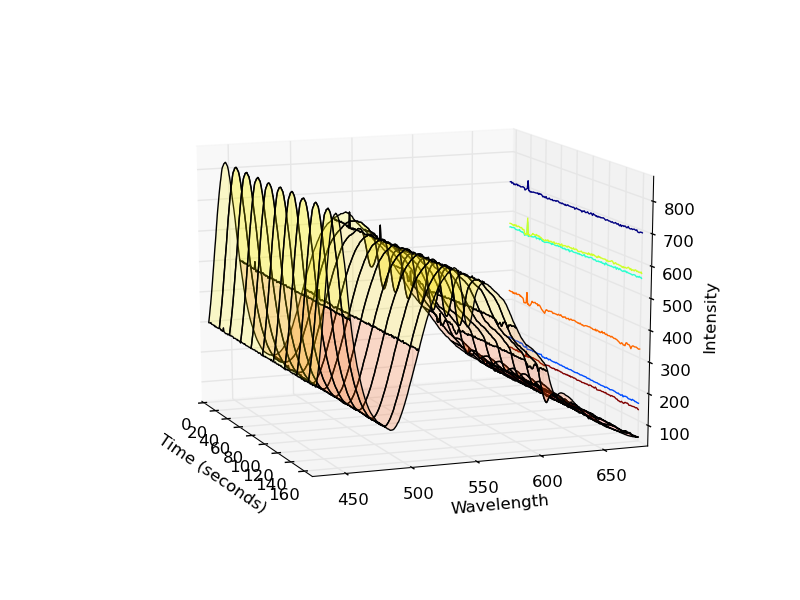
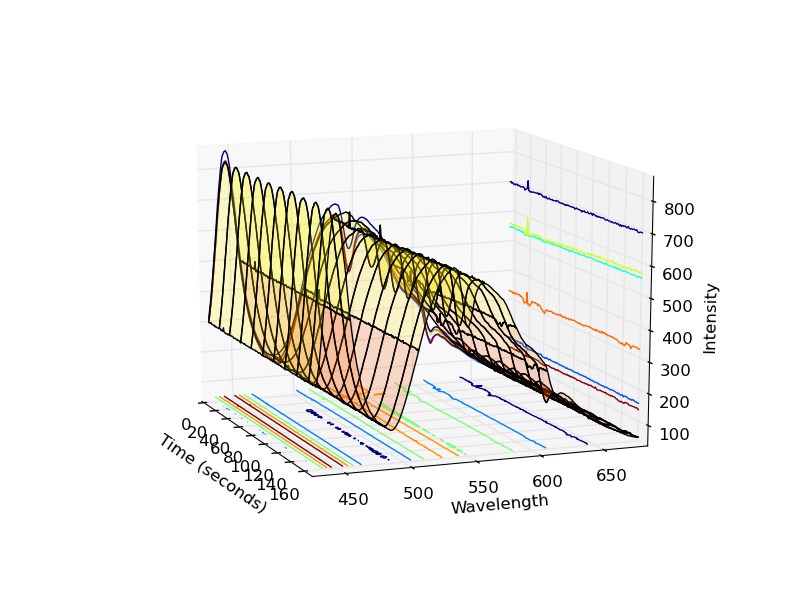
Created a nice script, updated 3dplots to be smarter and more generic

diff --git a/pyuvvis/scripts/gwu_spec.py b/pyuvvis/scripts/gwu_spec.py
@@ -1,4 +1,4 @@
-import os
+import os, time
 from optparse import OptionParser
 
 ## For testing
@@ -37,6 +37,8 @@ if __name__=='__main__':
     img_ignore=['png', 'jpeg', 'tif', 'bmp'] #no .
     logfilename='RUNLOG'
     
+    ### Option Parser to catch indirectory, outdirectory, wheter to ignore images in a directory, 
+    ### and to overwrite output directory if it already exists 
     parser = OptionParser(usage='usage: %prog -i indirectory -o outdirectory ', version='%prog 0.1.0')
     parser.add_option('-d', '--indir',
                       action='store',
@@ -55,7 +57,7 @@ if __name__=='__main__':
                       default='', #None causes errors
                       help='Title of trial/run, used in plot titles and other places.',)     
     
-    parser.add_option('-i', '--ignore', action='store_true', default=True, #type='choice', choices=['True', 'False'],
+    parser.add_option('-i', '--ignore', action='store_true', default=True, 
                       dest='ignore',  help='Ignore the most commonly found image types \
                       (.png, .jpeg etc...) when parsing data files.')
     
@@ -68,22 +70,25 @@ if __name__=='__main__':
     
     (options, args) = parser.parse_args()
     
-    ### Arguments will default to None
+    ### Ensure indir/outdir were passed
     inroot, outroot=options.wd, options.od 
     if inroot==None or outroot == None:
+        ### Arguments will default to None, so can't do try: except AttributeError        
         parser.error("Please both enter an indirectory (-d) and outdirectory (-o)")
 
+    ### If runname, add underscore for output file formatting
     if options.rname !='':
-        options.rname+='_'  #Add underscore to runname if it exists
+        options.rname+='_'  
     
-    ### Open logfile
+    ### Open logfile to track various IO steps
+    start=time.time()
     lf=open(outroot + '/'+ logfilename, 'w')
 
-
-    ### Walk subdirectories    
+    ### Walk a single directory down    
     walker=os.walk(inroot, topdown=True, onerror=None, followlinks=False)
     (rootpath, rootdirs, rootfiles)= walker.next()
     for folder in rootdirs:    
+        print "Analyzing run directory %s"%folder
 
         wd=inroot+'/'+folder
         od=outroot+'/'+folder
@@ -149,12 +154,12 @@ if __name__=='__main__':
         if hasattr(df_full, 'darkseries'):
             if isinstance(df_full.darkseries, type(None) ):
                 df=df_full #need this                
-                lf.write('Warning: darkseries not found in data of run directory %s'%folder)            
+                lf.write('Warning: darkseries not found in data of run directory %s\n'%folder)            
             else:    
                 df=df_full.sub(df_full.darkseries, axis='index')
         else:
             df=df_full #need this
-            lf.write('Warning: darkseries attribute is no found on dataframe in folder %s !'%folder)            
+            lf.write('Warning: darkseries attribute is no found on dataframe in folder %s!\n'%folder)            
 
         
         ### Make parameter.  Really don't need this except autoscaling plots with the full data, primarily setting
@@ -200,7 +205,7 @@ if __name__=='__main__':
         ### 3D Plots.  Set row and column step size, eg 10 would mean 10 column traces on the contours ###
         c_iso=10 ; r_iso=10
         kinds=['contourf', 'contour']
-        views=( (14, -21), (10,-30) )  #elev, aziumuth
+        views=( (14, -21), (28, 17), (5, -13), (48, -14), (14,-155) )  #elev, aziumuth
         for kind in kinds:
             out3d=od+'/3dplots_'+kind
             os.mkdir(out3d)
@@ -219,69 +224,6 @@ if __name__=='__main__':
         
 
     ### Close logfile    
+    lf.write('Time for completion, %s'%(round(time.time()-start),1))
     lf.close()
             
-
-    
-    #df_stream=pkgutil.get_data('pyuvvis', 'data/example_data/spectra.pickle') 
-    #df=df_loads(df_stream)
-    
-    #### subtract the dark spectrum
-    #df=df.sub(df.darkseries, axis='index')
-
-
-    #df.columns=datetime_convert(df.columns, return_as='seconds')
-    
-
-    ##df=boxcar(df, 2.0)
-    #dfsliced=wavelength_slices(df, ranges=((350.0,370.0), (450.0,500.0), (550.0,570.0), (650.0,680.0), (680.0,700.0)),\
-                               #apply_fcn='simps')
-                             ##  apply_fcn=np.histogram, bins=3)
-
-    #dfarea=wavelength_slices(df, ranges=(min(df.index), max(df.index)), apply_fcn='simps')
-                             
-    #df=df.ix[400.0:700.0]
-   ## colormapper=_df_colormapper(df, axis=0, vmin=300.0, vmax=700.0, cmap=cm.gist_heat)
-    ##specplot(df, colors=colormapper)
-    ##plt.show()
-
-##    timeplot(df, colors=_df_colormapper(df, axis=1,cmap=cm.autumn))
-    #range_timeplot(dfsliced)
-    #plt.show()
-    #df=boxcar(df, 10.0, axis=1)
-
-
-    #df=df.ix[400.0:800.0] 
-    ##df=df.ix[500.0:600.0]
-   
-    ##spec_surface3d(df, kind='contourf', xlabel='Time (s)', ylabel='Wavelength (nm)')
-  
-
-    ##plt.title('9/5/12 NPSam')
-    ##plt.show()
-              
-    ##spec_surface3d(df, kind='contourf', xlabel='Time (s)', ylabel='Wavelength (nm)')
-    ##spec_surface3d(df)
-
-
-
-    ##mlab.surf(np.asarray(list(df.columns)), np.asarray(list(df.index)) , np.asarray(df), warp_scale='auto')
-    #spec_poly3d(df)
-    #plt.show()
-
-    ##transfer_attr(df, df2)     
-    ##specax=specplot(df2)
-
-    ##dftime=df.transpose()  ### Store a custom axis.
-    ##dftime.runname='Spec test name'
-    ##timeax=timeplot(dftime)
-    ##fig = plt.figure()
-    ##fig.axes.append(timeax)
-
-    #hz=spectral_convert(df.index)
-    #print 'hi'
-    ##df=df.transpose()
-    ##plt.figure()
-    ##df.plot()
-    ##plt.leged=False
-    ##plt.show()
